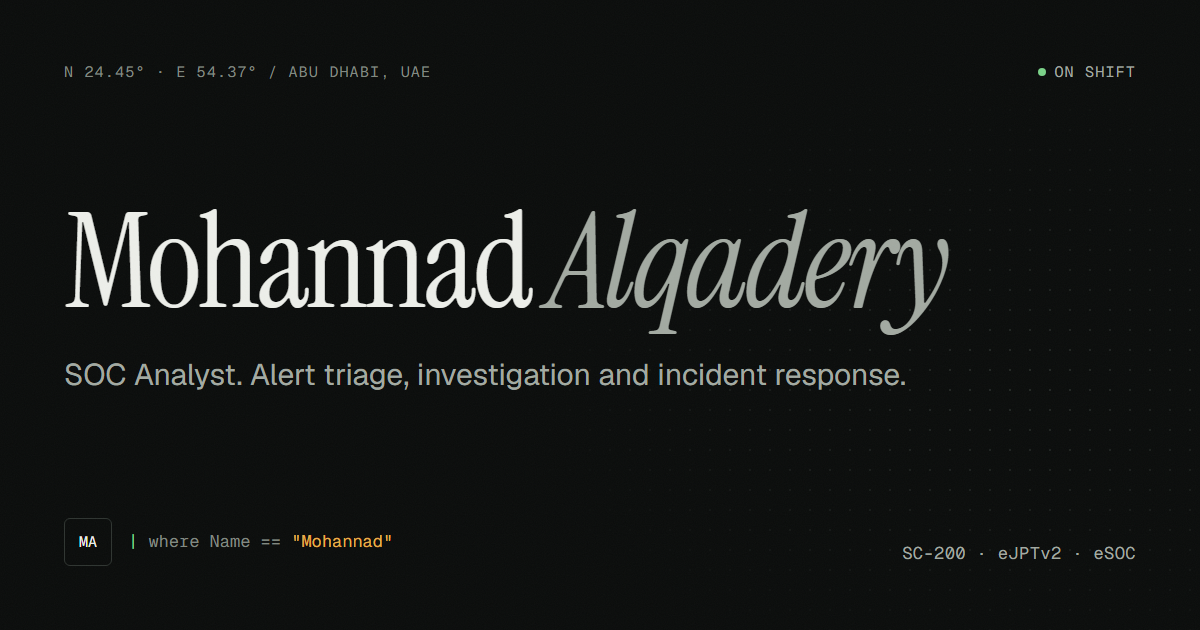
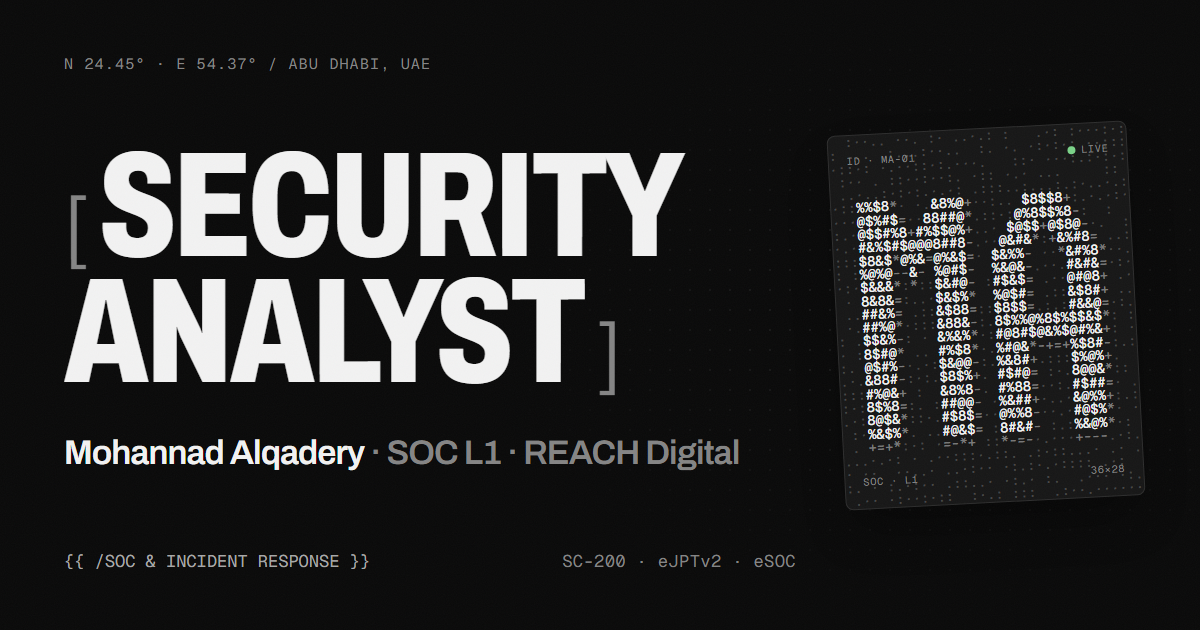
feat(og): v2 social preview card
The share image now shows the condensed [ SECURITY ANALYST ] headline,
name and post, the tagline, the certifications and a tilted ASCII MA
card, built from the same pieces as the hero. Alt text updated; the
touch icon is re-rendered from the v2 favicon.

diff --git a/src/features/og/OgCard.tsx b/src/features/og/OgCard.tsx
@@ -1,13 +1,14 @@
-import { StatusDot } from '@/components/ui/StatusDot'
 import { credentials } from '@/content/credentials'
+import { heroScene } from '@/content/hero'
 import { site } from '@/content/site'
+import { AsciiMonogram } from '@/features/hero/AsciiMonogram'
 
 /**
  * 1200×630 social preview card, rendered at /#og and captured to public/og.png by
- * `npm run og`. Uses the real fonts and tokens so it always matches the site.
+ * `npm run og`. Built from the same fonts, tokens and pieces as the site's hero.
  */
 export default function OgCard() {
-  const [firstName, ...rest] = site.name.split(' ')
+  const [first, second] = heroScene.headline
   const certs = credentials
     .filter((c) => c.featured)
     .map((c) => c.code)
@@ -16,42 +17,40 @@ export default function OgCard() {
   return (
     <div
       id="og-card"
-      className="relative flex h-[630px] w-[1200px] flex-col justify-between overflow-hidden bg-canvas p-16"
+      className="relative flex h-[630px] w-[1200px] overflow-hidden bg-canvas px-16 py-14"
     >
       <div
         aria-hidden="true"
-        className="absolute inset-0 bg-dotgrid [mask-image:radial-gradient(ellipse_60%_70%_at_85%_60%,black,transparent_75%)] opacity-70"
+        className="absolute inset-0 bg-dotgrid [mask-image:radial-gradient(ellipse_55%_70%_at_78%_50%,black,transparent_75%)] opacity-60"
       />
 
-      <div className="relative flex items-center justify-between">
+      <div className="relative flex flex-1 flex-col justify-between">
         <p className="label text-[15px] text-fg-subtle">
           {site.location.coordinates} / {site.location.city}, {site.location.country}
         </p>
-        <p className="flex items-center gap-2 label text-[15px] text-fg-muted">
-          <StatusDot /> On shift
-        </p>
-      </div>
 
-      <div className="relative">
-        <p className="font-display text-[132px] leading-[0.9] tracking-[-0.025em] text-fg">
-          {firstName} <em className="text-fg-muted">{rest.join(' ')}</em>
-        </p>
-        <p className="mt-8 max-w-[900px] text-[30px] leading-snug text-fg-muted">
-          SOC Analyst. Alert triage, investigation and incident response.
-        </p>
-      </div>
-
-      <div className="relative flex items-end justify-between">
-        <div className="flex items-center gap-4">
-          <span className="grid size-12 place-items-center rounded-md border border-line-strong font-mono text-[15px] text-fg">
-            {site.monogram}
-          </span>
-          <span className="font-mono text-[17px] text-fg-subtle">
-            <span className="text-signal">|</span> where Name =={' '}
-            <span className="text-sev-medium">"Mohannad"</span>
-          </span>
+        <div>
+          <p className="font-display text-[150px] leading-[0.84] font-extrabold tracking-[-0.02em] text-fg uppercase font-stretch-[72%]">
+            <span className="text-[0.55em] font-light text-fg-subtle font-stretch-100%">[ </span>
+            {first}
+            <br />
+            {second}
+            <span className="text-[0.55em] font-light text-fg-subtle font-stretch-100%"> ]</span>
+          </p>
+          <p className="mt-8 font-display text-[34px] font-semibold tracking-tight text-fg">
+            {site.name}
+            <span className="text-fg-subtle"> · SOC L1 · REACH Digital</span>
+          </p>
         </div>
-        <p className="font-mono text-[17px] tracking-wide text-fg-muted">{certs}</p>
+
+        <div className="flex items-center justify-between pr-10 font-mono text-[17px]">
+          <span className="text-fg-muted">{heroScene.tagline}</span>
+          <span className="tracking-wide text-fg-subtle">{certs}</span>
+        </div>
+      </div>
+
+      <div className="relative flex items-center">
+        <AsciiMonogram className="w-[300px] -rotate-3" />
       </div>
     </div>
   )

diff --git a/index.html b/index.html
@@ -34,7 +34,7 @@
     <meta property="og:image:height" content="630" />
     <meta
       property="og:image:alt"
-      content="Mohannad Alqadery, SOC Analyst, with a KQL query on a dark background"
+      content="Mohannad Alqadery, Security Analyst: a condensed headline beside an ASCII card of the initials MA"
     />
     <meta property="og:locale" content="en_GB" />
     <meta name="twitter:card" content="summary_large_image" />
